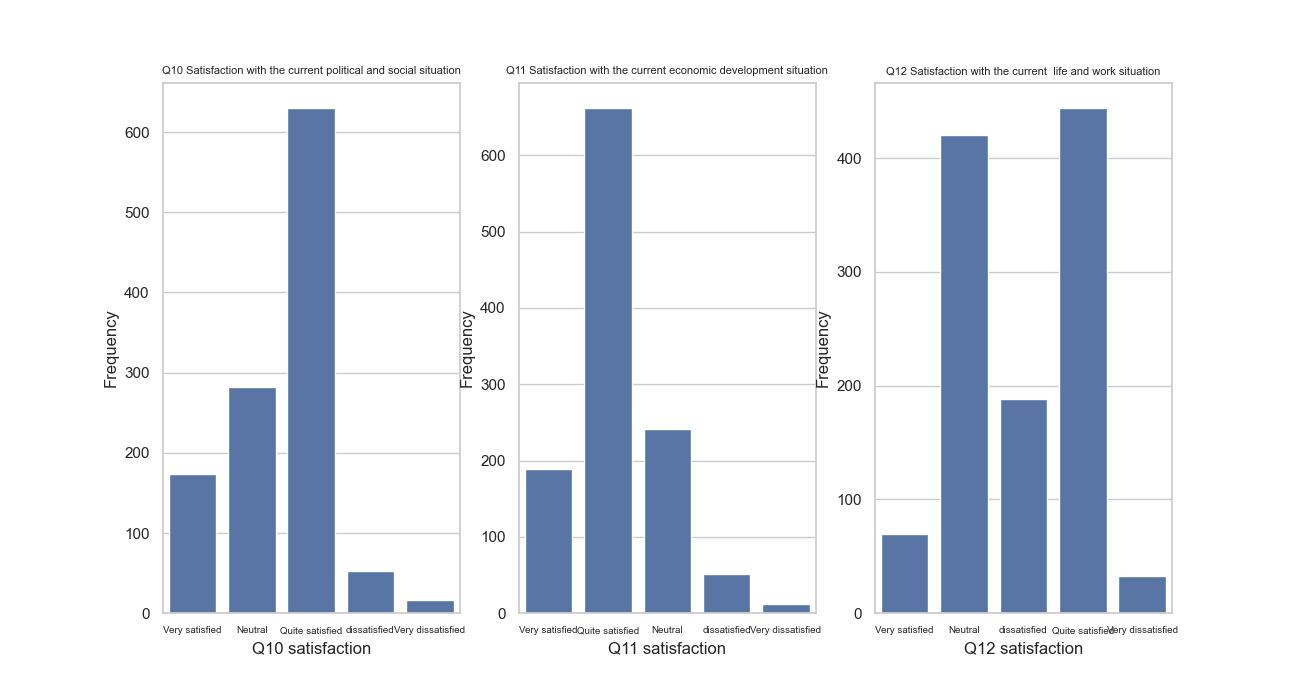
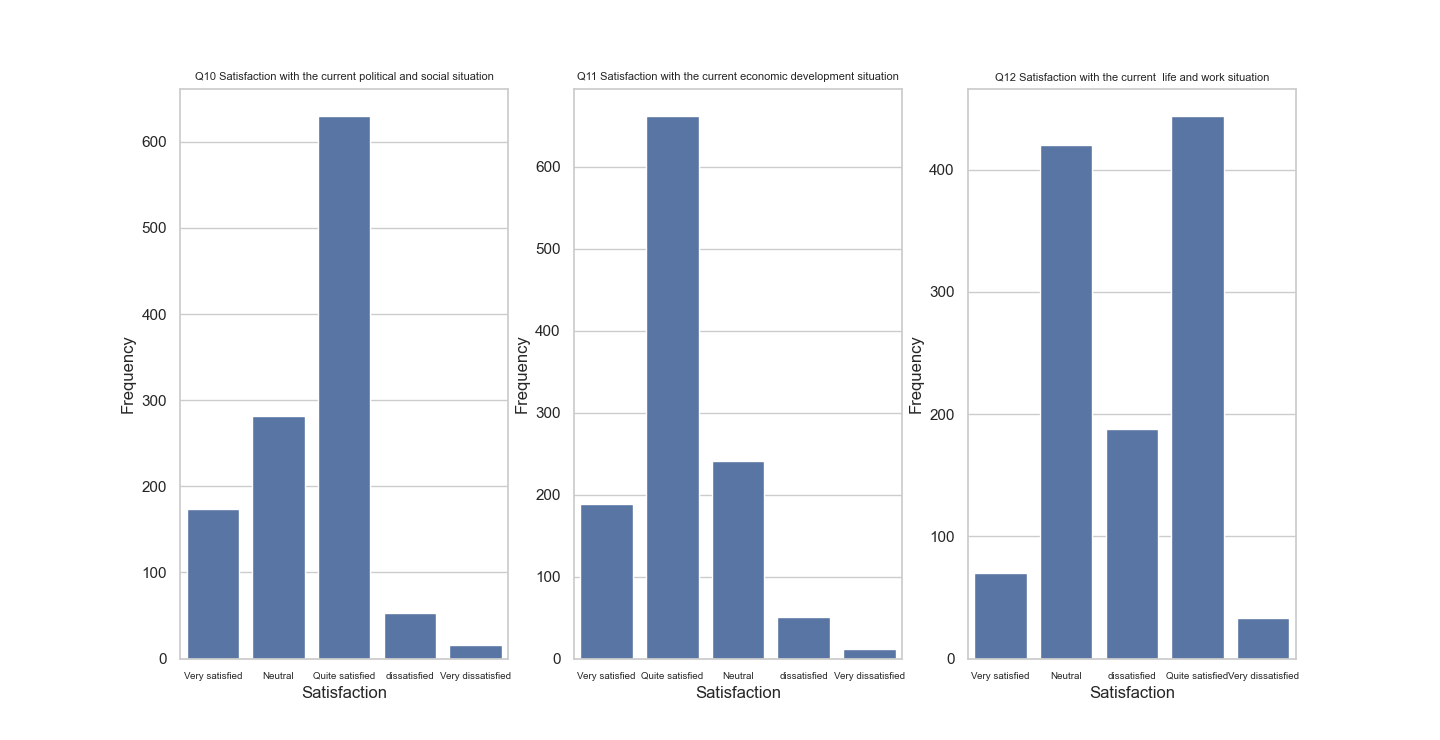
adjusted figures

diff --git a/src/data/descriptive_data.py b/src/data/descriptive_data.py
@@ -13,7 +13,7 @@ description = data.describe()
 print(description)
 sns.set(style="whitegrid")
 #fig for control
-fig, axes1 = plt.subplots(2, 4, figsize=(20, 10))
+fig, axes1 = plt.subplots(2, 4, figsize=(20, 10), constrained_layout=True)
 #q3
 gender_mapping = {1: 'Male', 2: 'Female'}
 data['Q3_mapped'] = data['Q3'].map(gender_mapping)
@@ -27,7 +27,7 @@ PA_mapping = {1:'General public',2:'Communist \nParty',3:'Democratic \nParties',
 data['Q4_mapped'] = data['Q4'].map(PA_mapping)
 sns.countplot(x='Q4_mapped', data=data,ax=axes1[0,1])
 axes1[0, 1].set_title('Q4 Political Affiliation')
-axes1[0, 1].set_xlabel('Q4 Political affiliation')
+axes1[0, 1].set_xlabel('Political affiliation')
 axes1[0, 1].set_ylabel('Frequency')
 axes1[0, 1].tick_params(axis='x', labelsize=7)
 
@@ -36,7 +36,7 @@ Education_mapping = {1:'Junior college', 2: 'Bachelor', 3: 'Master or higher'}
 data['Q5_mapped']=data['Q5'].map(Education_mapping)
 sns.countplot(x='Q5_mapped', data=data,ax=axes1[0,2])
 axes1[0, 2].set_title('Q5 highest educational attainment')
-axes1[0, 2].set_xlabel('Q5 education')
+axes1[0, 2].set_xlabel('education')
 axes1[0, 2].set_ylabel('Frequency')
 axes1[0, 2].tick_params(axis='x', labelsize=7)
 
@@ -45,7 +45,7 @@ University_mapping = {1: '985-tier \nuniversity',2: '211-tier \nuniversity',3:'G
 data['Q6_mapped']=data['Q6'].map(University_mapping)
 sns.countplot(x='Q6_mapped', data=data,ax=axes1[0,3])
 axes1[0, 3].set_title('Q6 category of the university')
-axes1[0, 3].set_xlabel('Q6 category of the university')
+axes1[0, 3].set_xlabel('Category of the university')
 axes1[0, 3].set_ylabel('Frequency')
 axes1[0, 3].tick_params(axis='x', labelsize=7)
 #q7
@@ -53,7 +53,7 @@ Major_mapping = {1: 'Humanities \nand Arts',2: 'Social \nSciences',3: 'Science a
 data['Q7_mapped']=data['Q7'].map(Major_mapping)
 sns.countplot(x='Q7_mapped', data=data,ax=axes1[1,0])
 axes1[1, 0].set_title('Q7 Major')
-axes1[1, 0].set_xlabel('Q7 Major')
+axes1[1, 0].set_xlabel('Major')
 axes1[1, 0].set_ylabel('Frequency')
 axes1[1, 0].tick_params(axis='x', labelsize=7)
 #q8
@@ -62,7 +62,7 @@ Income_mapping = {1: 'Below 20k',2: '20k\n-50k' ,3: '50k\n-100k',4: '100k\n-150k
 data['Q8_mapped']=data['Q8'].map(Income_mapping)
 sns.countplot(x='Q8_mapped', data=data,ax=axes1[1,1])
 axes1[1, 1].set_title('Q8 Family Income')
-axes1[1, 1].set_xlabel('Q8 Family Income')
+axes1[1, 1].set_xlabel('Family Income')
 axes1[1, 1].set_ylabel('Frequency')
 axes1[1, 1].tick_params(axis='x', labelsize=7)
 #q9
@@ -70,7 +70,7 @@ Hometown_mapping = {1: 'Large cities', 2: 'Medium-sized cities',3: 'Small cities
 data['Q9_mapped']=data['Q9'].map(Hometown_mapping)
 sns.countplot(x='Q8_mapped', data=data,ax=axes1[1,2])
 axes1[1, 2].set_title('Q9 Family Income')
-axes1[1, 2].set_xlabel('Q9 Family Income')
+axes1[1, 2].set_xlabel('Family Income')
 axes1[1, 2].set_ylabel('Frequency')
 axes1[1, 2].tick_params(axis='x', labelsize=7)
 
@@ -81,7 +81,7 @@ PS_mapping = {3: 'Very dissatisfied', 4: 'dissatisfied', 5: 'Neutral', 6: 'Quite
 data['Q10_mapped']=data['Q10'].map(PS_mapping)
 sns.countplot(x='Q10_mapped', data=data,ax=axes2[0])
 axes2[0].set_title('Q10 Satisfaction with the current political and social situation',fontsize=8)
-axes2[0].set_xlabel('Q10 satisfaction')
+axes2[0].set_xlabel('Satisfaction')
 axes2[0].set_ylabel('Frequency')
 axes2[0].tick_params(axis='x', labelsize=7)
 #q11
@@ -89,7 +89,7 @@ econ_mapping = {3: 'Very dissatisfied', 4: 'dissatisfied', 5: 'Neutral', 6: 'Qui
 data['Q11_mapped']=data['Q11'].map(econ_mapping)
 sns.countplot(x='Q11_mapped', data=data,ax=axes2[1])
 axes2[1].set_title('Q11 Satisfaction with the current economic development situation',fontsize=8)
-axes2[1].set_xlabel('Q11 satisfaction')
+axes2[1].set_xlabel('Satisfaction')
 axes2[1].set_ylabel('Frequency')
 axes2[1].tick_params(axis='x', labelsize=7)
 #q12
@@ -97,7 +97,7 @@ life_mapping = {3: 'Very dissatisfied', 4: 'dissatisfied', 5: 'Neutral', 6: 'Qui
 data['Q12_mapped']=data['Q12'].map(life_mapping)
 sns.countplot(x='Q12_mapped', data=data,ax=axes2[2])
 axes2[2].set_title('Q12 Satisfaction with the current  life and work situation',fontsize=8)
-axes2[2].set_xlabel('Q12 satisfaction')
+axes2[2].set_xlabel('Satisfaction')
 axes2[2].set_ylabel('Frequency')
 axes2[2].tick_params(axis='x', labelsize=7)
 
@@ -108,7 +108,7 @@ interest_mapping = {3: 'not interested \nat all', 4: 'not very \ninterested', 5:
 data['Q13_mapped']=data['Q13'].map(interest_mapping)
 sns.countplot(x='Q13_mapped', data=data,ax=axes3[0])
 axes3[0].set_title('Q13 interest in political news',fontsize=8)
-axes3[0].set_xlabel('Q13 interest')
+axes3[0].set_xlabel('interest')
 axes3[0].set_ylabel('Frequency')
 axes3[0].tick_params(axis='x', labelsize=7)
 #q14
@@ -116,7 +116,7 @@ browse_mapping = {3: 'never', 4: '1-2 times \nper month', 5: 'A few times \nper 
 data['Q14_mapped']=data['Q14'].map(browse_mapping)
 sns.countplot(x='Q14_mapped', data=data,ax=axes3[1])
 axes3[1].set_title('Q14 How often do you browse current affairs and political news',fontsize=8)
-axes3[1].set_xlabel('Q14 interest')
+axes3[1].set_xlabel('how often')
 axes3[1].set_ylabel('Frequency')
 axes3[1].tick_params(axis='x', labelsize=7)
 #q15_A8
@@ -124,7 +124,7 @@ browse_mapping = {0:'no',1:'yes'}
 data['Q15_mapped']=data['Q15_A8'].map(browse_mapping)
 sns.countplot(x='Q15_mapped', data=data,ax=axes3[2])
 axes3[2].set_title('Q15 Do you browse overseas media and their websites?',fontsize=8)
-axes3[2].set_xlabel('Q15 overseas')
+axes3[2].set_xlabel('Overseas')
 axes3[2].set_ylabel('Frequency')
 axes3[2].tick_params(axis='x', labelsize=7)
 plt.tight_layout()
